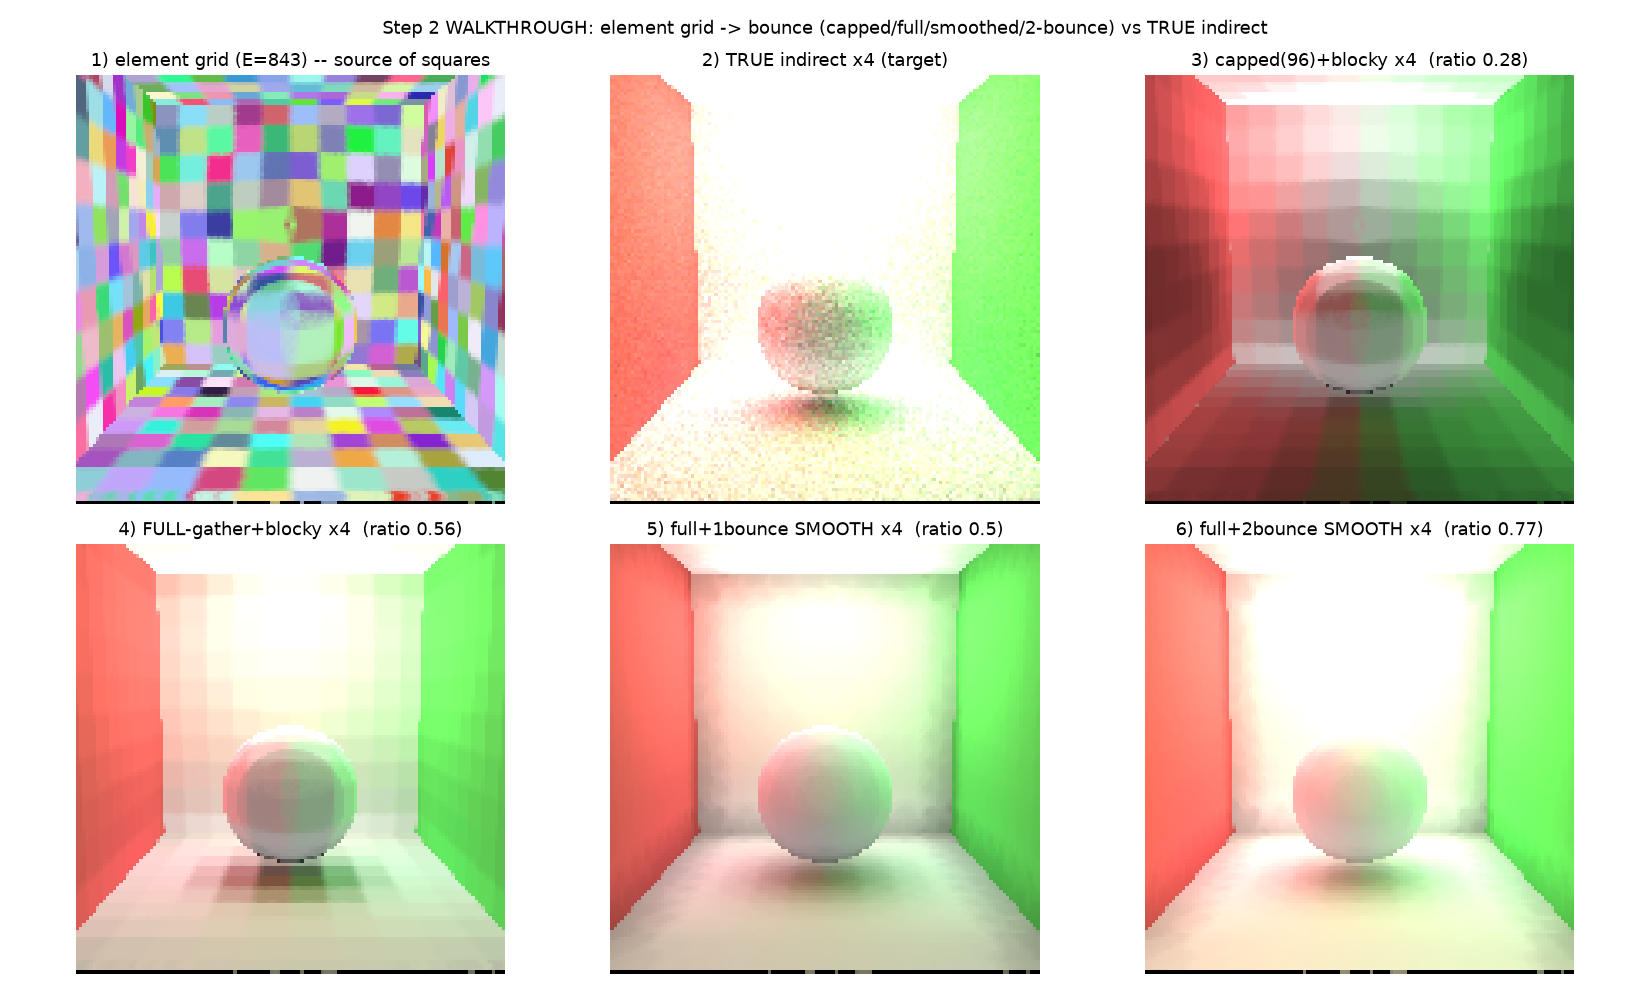
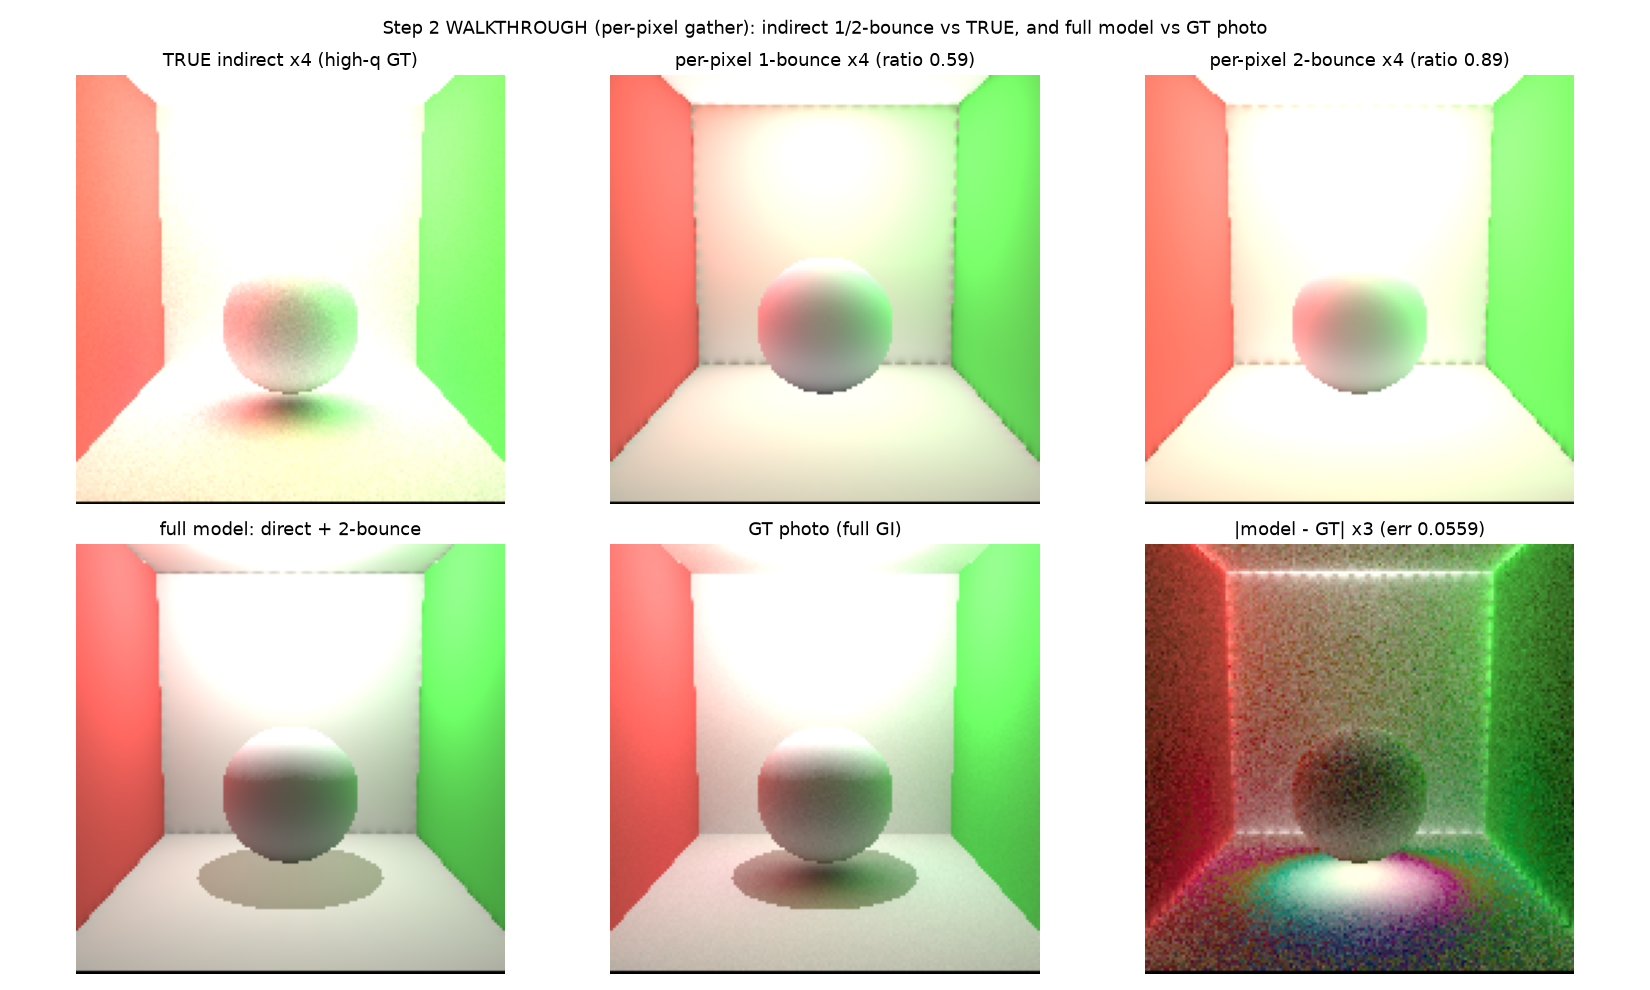
rt step2: per-pixel receiver gather (no interp/squares, geometry-correct) + near-field-stable area form factor; finer patches. bounce-sweep test confirms floor color-bleed is a 1-bounce effect (path-traced shows it at nb=1) -> the form-factor operator was dropping the wall->floor transfer, not a bou

diff --git a/src/rt/rt_step2.py b/src/rt/rt_step2.py
@@ -26,7 +26,7 @@ H = int(sys.argv[2]) if len(sys.argv)>2 else 128
 ITERS = int(sys.argv[3]) if len(sys.argv)>3 else 400
 GT_SPP = int(sys.argv[4]) if len(sys.argv)>4 else 256
 W=H; EPS=0.04; DMIN=0.6; GT_NB=3
-VOX=0.20; R_MAX=3.0; KNN=96                     # element clustering + form-factor neighborhood
+VOX=0.12; R_MAX=3.0; KNN=96; BOUNCES=2          # element clustering, form-factor neighborhood, indirect bounces
 
 LIGHT_POS = torch.tensor([0.0,0.9,-0.1], device=DEV)
 LIGHT_INT_TRUE = torch.tensor([7.0,7.0,7.0], device=DEV)
@@ -138,7 +138,7 @@ def build_K(tr,gsA0,eid,E,cen,nor,area,knn=None):
     else:
         ii,jj=facing.nonzero(as_tuple=True)                                         # all facing pairs
     rij=r[ii,jj]; ci=cos_i[ii,jj]; cj=cos_j[ii,jj]
-    Kij=ci*cj/(PI*rij**2)*area[jj]
+    Kij=ci*cj*area[jj]/(PI*rij**2 + area[jj])                                       # area form factor (near-field stable)
     oi=cen[ii]+nor[ii]*EPS; dj=torch.nn.functional.normalize(cen[jj]-cen[ii],dim=-1)
     op,dist=trace_flat(tr,gsA0,oi,dj); occ=(op>0.5)&(dist<rij-3*EPS)
     Kij=Kij*(~occ).float()
@@ -160,6 +160,29 @@ def smooth_weights(S, cen, nor, k=8, chunk=20000):
     return nbr,w
 
 def smooth_apply(Eelem, nbr, w): return (Eelem[nbr]*w[...,None]).sum(1)              # (E,3),(N,k),(N,k)->(N,3)
+
+
+def view_G(p, n, cen, nor, area, chunk=4096):
+    """per-PIXEL receiver gather matrix G[pix,j] = max(n_pix.u,0)*max(-n_j.u,0)/(pi r^2)*area_j.
+    Uses each pixel's OWN position/normal (no interpolation, geometry-correct, corners darken naturally).
+    Geometry-only & fixed per view -> precomputed once. Indirect visibility omitted (soft fill)."""
+    HW=p.shape[0]*p.shape[1]; E=cen.shape[0]; pf=p.reshape(-1,3); nf=n.reshape(-1,3)
+    G=torch.zeros(HW,E,device=DEV)
+    for s in range(0,HW,chunk):
+        pc=pf[s:s+chunk]; nc=nf[s:s+chunk]
+        d=cen[None,:,:]-pc[:,None,:]; r=d.norm(dim=-1).clamp(min=1e-3); u=d/r[...,None]
+        cos_i=torch.relu((nc[:,None,:]*u).sum(-1)); cos_j=torch.relu((-nor[None,:,:]*u).sum(-1))
+        G[s:s+chunk]=cos_i*cos_j*area[None,:]/(PI*r**2 + area[None,:])              # area form factor (near-field stable)
+    return G                                                                          # (HW, E)
+
+
+def radiosity(rho_elem, Edir_elem, K, terms):
+    """multi-bounce element radiosity. terms=1 -> direct response only; terms=2 -> + one inter-element bounce.
+    inter-element transfer K already carries (coarse) patch-to-patch visibility."""
+    B0=rho_elem*Edir_elem; acc=B0; cur=B0
+    for _ in range(terms-1):
+        cur=rho_elem*(K@cur); acc=acc+cur
+    return acc                                                                        # (E,3) total outgoing
 
 def scatter_mean(x,eid,E):
     cnt=torch.zeros(E,device=x.device).index_add_(0,eid,torch.ones(x.shape[0],device=x.device)).clamp(min=1)
@@ -184,20 +207,20 @@ def precompute(tr,S,gsA0,gsN):
         fac_pix=torch.relu((n0*lp_).sum(-1,keepdim=True))*vis0/(ldp.clamp(min=DMIN)**2)
         GTgi=render_gt(tr,S,gsA0,gsN,cam,pdir,LIGHT_POS,LIGHT_INT_TRUE,GT_SPP,GT_NB).detach()
         GTdir=render_gt(tr,S,gsA0,gsN,cam,pdir,LIGHT_POS,LIGHT_INT_TRUE,0,0).detach()
-        views.append(dict(cam=cam,pdir=pdir,hit=hit0,p=p0,n=n0,alb_t=alb_t,fac=fac_pix,GTgi=GTgi,GTdir=GTdir))
+        G=view_G(p0,n0,cen,nor,area)
+        views.append(dict(cam=cam,pdir=pdir,hit=hit0,p=p0,n=n0,alb_t=alb_t,fac=fac_pix,GTgi=GTgi,GTdir=GTdir,G=G))
     return dict(fac_g=fac_g,eid=eid,E=E,K=K,Kdens=dens,mean_fac_elem=mean_fac_elem,views=views,
                 cen=cen,nor=nor,area=area)
 
 
-def indirect_pix(tr, S, rho_g, lint, PC, view, gsN_dummy=None):
-    """element one-bounce indirect irradiance, rendered to this view's pixels (differentiable in rho_g, lint)."""
+def indirect_pix(tr, S, rho_g, lint, PC, view):
+    """per-PIXEL receiver gather of multi-bounce indirect irradiance (differentiable in rho_g, lint).
+    elements bounce among themselves via K (coarse, with visibility); G projects to pixels (own geometry)."""
     eid,E,K=PC["eid"],PC["E"],PC["K"]
-    rho_elem=scatter_mean(rho_g,eid,E)                                  # (E,3)
-    Edir_elem=lint.view(1,3)*PC["mean_fac_elem"][:,None]                # (E,3) direct irradiance per element
-    Bdir=rho_elem*Edir_elem                                            # (E,3) direct radiosity
-    Eind_elem=K@Bdir                                                   # (E,3) one-bounce incoming irradiance
-    gsInd=feat_gs(S, Eind_elem[eid])                                   # per-Gaussian color = its element's indirect
-    eind,_,_=trace(tr,gsInd,view["cam"],view["pdir"]); return eind     # (H,W,3)
+    rho_elem=scatter_mean(rho_g,eid,E)
+    Edir_elem=lint.view(1,3)*PC["mean_fac_elem"][:,None]
+    B=radiosity(rho_elem,Edir_elem,K,BOUNCES)                          # (E,3) multi-bounce element radiosity
+    return (view["G"]@B).view(H,W,3)                                   # (H,W,3) per-pixel, no render needed
 
 
 def render_model(tr,S,gsA,rho_g,lint,PC,view,use_gi):
@@ -282,9 +305,9 @@ def stage_full():
 
 
 def stage_walk():
-    """visual walkthrough of the form-factor pipeline so the failure is visible at each stage."""
+    """validate the PER-PIXEL receiver gather (smooth + geometry-correct) against HIGH-QUALITY GT."""
     S=build(); tr=tracer(); gsA0=feat_gs(S,S["alb"]); gsN=feat_gs(S,0.5*(S["nrm"]+1)); tr.build_acc(gsA0,rebuild=True)
-    print(f"STEP2 WALK | {H}x{W} | GT spp={GT_SPP} nb={GT_NB} | vox={VOX}")
+    print(f"STEP2 WALK (per-pixel gather) | {H}x{W} | GT spp={GT_SPP} nb={GT_NB} | vox={VOX} bounces={BOUNCES}")
     n_g=orient(S["nrm"], LIGHT_POS.view(1,3)-S["pos"])
     lv=LIGHT_POS.view(1,3)-S["pos"]; ld=lv.norm(dim=-1,keepdim=True); l=lv/(ld+1e-9)
     opg,dg=trace_flat(tr,gsA0,S["pos"]+n_g*EPS,l); visg=(~((opg>0.5)&(dg<ld[:,0]-2*EPS))).float()
@@ -292,43 +315,115 @@ def stage_walk():
     eid,E,cen,nor,area=build_elements(S)
     cntN=torch.zeros(E,device=DEV).index_add_(0,eid,torch.ones(S["N"],device=DEV)).clamp(min=1)
     mean_fac_elem=torch.zeros(E,device=DEV).index_add_(0,eid,fac_g)/cntN
-    print(f"  elements E={E}")
-    Kcap,ncap=build_K(tr,gsA0,eid,E,cen,nor,area,knn=KNN)
-    Kfull,nfull=build_K(tr,gsA0,eid,E,cen,nor,area,knn=None)
-    print(f"  K pairs: capped {ncap}, full {nfull}")
-    nbr,w=smooth_weights(S,cen,nor)
+    K,nfull=build_K(tr,gsA0,eid,E,cen,nor,area,knn=None)
+    print(f"  elements E={E} | K pairs(full) {nfull}")
     smean=lambda x:(torch.zeros(E,x.shape[1],device=DEV).index_add_(0,eid,x))/cntN[:,None]
-    rho_elem=smean(S["alb"]); Edir_elem=LIGHT_INT_TRUE.view(1,3)*mean_fac_elem[:,None]; Bdir=rho_elem*Edir_elem
-    Eind_cap=Kcap@Bdir; Eind_full=Kfull@Bdir; Eind_2b=Kfull@(Bdir+rho_elem*(Kfull@Bdir))
-    Eind_1b_g=smooth_apply(Eind_full,nbr,w); Eind_2b_g=smooth_apply(Eind_2b,nbr,w)
+    rho_elem=smean(S["alb"]); Edir_elem=LIGHT_INT_TRUE.view(1,3)*mean_fac_elem[:,None]
 
-    cam,pdir=camera(*VIEWS[0]); hit0,p0,n0,alb_t=surf(tr,gsA0,gsN,cam,pdir); m=(hit0>0)
+    cam,pdir=camera(*VIEWS[0]); hit0,p0,n0,alb_t=surf(tr,gsA0,gsN,cam,pdir); n0=orient(n0,-pdir); m=(hit0>0)
+    G=view_G(p0,n0,cen,nor,area)
     GTgi=render_gt(tr,S,gsA0,gsN,cam,pdir,LIGHT_POS,LIGHT_INT_TRUE,GT_SPP,GT_NB)
     GTdir=render_gt(tr,S,gsA0,gsN,cam,pdir,LIGHT_POS,LIGHT_INT_TRUE,0,0)
-    true_ind=(GTgi-GTdir).clamp(min=0)
-    ap,_,_=trace(tr,gsA0,cam,pdir)
-    rend=lambda colN:(trace(tr,feat_gs(S,colN),cam,pdir)[0])
-    torch.manual_seed(0); eid_img=rend(torch.rand(E,3,device=DEV)[eid])
-    rad_cap=ap/PI*rend(Eind_cap[eid]); rad_full=ap/PI*rend(Eind_full[eid])           # blocky (per-element)
-    rad_1b=ap/PI*rend(Eind_1b_g); rad_2b=ap/PI*rend(Eind_2b_g)                        # smooth (per-Gaussian)
+    true_ind=(GTgi-GTdir).clamp(min=0); ap,_,_=trace(tr,gsA0,cam,pdir)
+    B1=radiosity(rho_elem,Edir_elem,K,1); B2=radiosity(rho_elem,Edir_elem,K,2)
+    ind1=ap/PI*(G@B1).view(H,W,3); ind2=ap/PI*(G@B2).view(H,W,3)                       # per-pixel indirect radiance
+    lvp=LIGHT_POS.view(1,1,3)-p0; ldp=lvp.norm(dim=-1,keepdim=True); lpp=lvp/(ldp+1e-9)
+    vis0=shadow_vis(tr,gsA0,p0,n0,LIGHT_POS)
+    direct=ap/PI*torch.relu((n0*lpp).sum(-1,keepdim=True))*vis0*LIGHT_INT_TRUE.view(1,1,3)/(ldp.clamp(min=DMIN)**2)
+    model=direct+ind2
     tmean=float(true_ind[m].mean()); rr=lambda img:round(float(img[m].mean())/(tmean+1e-9),2)
-    print(f"  indirect mean ratio vs true: capped {rr(rad_cap)} | full {rr(rad_full)} | full+1b smooth {rr(rad_1b)} | full+2b smooth {rr(rad_2b)}")
+    merr=float((model[m]-GTgi[m]).abs().mean())
+    print(f"  indirect ratio vs true: per-pixel 1-bounce {rr(ind1)} | 2-bounce {rr(ind2)}")
+    print(f"  full model (direct+2b) vs GT photo: mean abs err {merr:.4f}")
     to=lambda t:(t*m[...,None]).detach().cpu().numpy()
     fig,ax=plt.subplots(2,3,figsize=(15,9))
-    ax[0,0].imshow(srgb(to(eid_img)));       ax[0,0].set_title(f"1) element grid (E={E}) -- source of squares")
-    ax[0,1].imshow(srgb(to(true_ind*4)));    ax[0,1].set_title("2) TRUE indirect x4 (target)")
-    ax[0,2].imshow(srgb(to(rad_cap*4)));     ax[0,2].set_title(f"3) capped(96)+blocky x4  (ratio {rr(rad_cap)})")
-    ax[1,0].imshow(srgb(to(rad_full*4)));    ax[1,0].set_title(f"4) FULL-gather+blocky x4  (ratio {rr(rad_full)})")
-    ax[1,1].imshow(srgb(to(rad_1b*4)));      ax[1,1].set_title(f"5) full+1bounce SMOOTH x4  (ratio {rr(rad_1b)})")
-    ax[1,2].imshow(srgb(to(rad_2b*4)));      ax[1,2].set_title(f"6) full+2bounce SMOOTH x4  (ratio {rr(rad_2b)})")
+    ax[0,0].imshow(srgb(to(true_ind*4)));  ax[0,0].set_title("TRUE indirect x4 (high-q GT)")
+    ax[0,1].imshow(srgb(to(ind1*4)));      ax[0,1].set_title(f"per-pixel 1-bounce x4 (ratio {rr(ind1)})")
+    ax[0,2].imshow(srgb(to(ind2*4)));      ax[0,2].set_title(f"per-pixel 2-bounce x4 (ratio {rr(ind2)})")
+    ax[1,0].imshow(srgb(to(model)));       ax[1,0].set_title("full model: direct + 2-bounce")
+    ax[1,1].imshow(srgb(to(GTgi)));        ax[1,1].set_title("GT photo (full GI)")
+    ax[1,2].imshow(srgb(to((model-GTgi).abs()*3))); ax[1,2].set_title(f"|model - GT| x3 (err {merr:.4f})")
     for a in ax.ravel(): a.axis("off")
-    fig.suptitle("Step 2 WALKTHROUGH: element grid -> bounce (capped/full/smoothed/2-bounce) vs TRUE indirect", fontsize=12)
+    fig.suptitle("Step 2 WALKTHROUGH (per-pixel gather): indirect 1/2-bounce vs TRUE, and full model vs GT photo", fontsize=12)
     fig.tight_layout(); fig.savefig(os.path.join(OUT,"step2_walk.png"),dpi=110); plt.close(fig)
     print("saved -> outputs/rt/step2_walk.png")
+
+
+def stage_bounces():
+    """settle 'is floor-green a bounce-count issue?': path-traced TRUE indirect at nb=1,2,3 (top row) vs
+    my form-factor operator at matching bounce counts (bottom row). See WHEN the floor color appears."""
+    S=build(); tr=tracer(); gsA0=feat_gs(S,S["alb"]); gsN=feat_gs(S,0.5*(S["nrm"]+1)); tr.build_acc(gsA0,rebuild=True)
+    print(f"STEP2 BOUNCE-SWEEP | {H}x{W} | GT spp={GT_SPP} | vox={VOX}")
+    n_g=orient(S["nrm"], LIGHT_POS.view(1,3)-S["pos"])
+    lv=LIGHT_POS.view(1,3)-S["pos"]; ld=lv.norm(dim=-1,keepdim=True); l=lv/(ld+1e-9)
+    opg,dg=trace_flat(tr,gsA0,S["pos"]+n_g*EPS,l); visg=(~((opg>0.5)&(dg<ld[:,0]-2*EPS))).float()
+    fac_g=torch.relu((n_g*l).sum(-1))*visg/(ld[:,0].clamp(min=DMIN)**2)
+    eid,E,cen,nor,area=build_elements(S)
+    cntN=torch.zeros(E,device=DEV).index_add_(0,eid,torch.ones(S["N"],device=DEV)).clamp(min=1)
+    mean_fac_elem=torch.zeros(E,device=DEV).index_add_(0,eid,fac_g)/cntN
+    K,_=build_K(tr,gsA0,eid,E,cen,nor,area,knn=None)
+    smean=lambda x:(torch.zeros(E,x.shape[1],device=DEV).index_add_(0,eid,x))/cntN[:,None]
+    rho_elem=smean(S["alb"]); Edir_elem=LIGHT_INT_TRUE.view(1,3)*mean_fac_elem[:,None]
+    cam,pdir=camera(*VIEWS[0]); hit0,p0,n0,alb_t=surf(tr,gsA0,gsN,cam,pdir); n0=orient(n0,-pdir); m=(hit0>0)
+    G=view_G(p0,n0,cen,nor,area); ap,_,_=trace(tr,gsA0,cam,pdir)
+    GTdir=render_gt(tr,S,gsA0,gsN,cam,pdir,LIGHT_POS,LIGHT_INT_TRUE,0,0)
+    print(f"  elements E={E}; rendering path-traced indirect nb=1,2,3 ...")
+    ti=[(render_gt(tr,S,gsA0,gsN,cam,pdir,LIGHT_POS,LIGHT_INT_TRUE,GT_SPP,b)-GTdir).clamp(min=0) for b in (1,2,3)]
+    ff=[ap/PI*(G@radiosity(rho_elem,Edir_elem,K,b)).view(H,W,3) for b in (1,2,3)]
+    to=lambda t:(t*m[...,None]).detach().cpu().numpy()
+    fig,ax=plt.subplots(2,3,figsize=(15,9))
+    for j,b in enumerate((1,2,3)):
+        ax[0,j].imshow(srgb(to(ti[j]*4))); ax[0,j].set_title(f"PATH-TRACED indirect, {b} bounce x4")
+        ax[1,j].imshow(srgb(to(ff[j]*4))); ax[1,j].set_title(f"FORM-FACTOR indirect, {b} bounce x4")
+    for a in ax.ravel(): a.axis("off")
+    fig.suptitle("Does floor-green need more bounces? top = path-traced GT at 1/2/3 bounces, bottom = our operator", fontsize=12)
+    fig.tight_layout(); fig.savefig(os.path.join(OUT,"step2_bounces.png"),dpi=110); plt.close(fig)
+    print("saved -> outputs/rt/step2_bounces.png")
+
+
+def stage_debug():
+    """find WHERE the wall->floor color is lost: split the operator's gathered indirect by emitter surface."""
+    S=build(); tr=tracer(); gsA0=feat_gs(S,S["alb"]); gsN=feat_gs(S,0.5*(S["nrm"]+1)); tr.build_acc(gsA0,rebuild=True)
+    print(f"STEP2 DEBUG | {H}x{W} | GT spp={GT_SPP} | vox={VOX}")
+    n_g=orient(S["nrm"], LIGHT_POS.view(1,3)-S["pos"])
+    lv=LIGHT_POS.view(1,3)-S["pos"]; ld=lv.norm(dim=-1,keepdim=True); l=lv/(ld+1e-9)
+    opg,dg=trace_flat(tr,gsA0,S["pos"]+n_g*EPS,l); visg=(~((opg>0.5)&(dg<ld[:,0]-2*EPS))).float()
+    fac_g=torch.relu((n_g*l).sum(-1))*visg/(ld[:,0].clamp(min=DMIN)**2)
+    eid,E,cen,nor,area=build_elements(S)
+    cntN=torch.zeros(E,device=DEV).index_add_(0,eid,torch.ones(S["N"],device=DEV)).clamp(min=1)
+    mean_fac_elem=torch.zeros(E,device=DEV).index_add_(0,eid,fac_g)/cntN
+    K,_=build_K(tr,gsA0,eid,E,cen,nor,area,knn=None)
+    smean=lambda x:(torch.zeros(E,x.shape[1],device=DEV).index_add_(0,eid,x))/cntN[:,None]
+    rho_elem=smean(S["alb"]); Edir_elem=LIGHT_INT_TRUE.view(1,3)*mean_fac_elem[:,None]; B0=rho_elem*Edir_elem
+    cam,pdir=camera(*VIEWS[0]); hit0,p0,n0,alb_t=surf(tr,gsA0,gsN,cam,pdir); n0=orient(n0,-pdir); m=(hit0>0)
+    G=view_G(p0,n0,cen,nor,area); ap,_,_=trace(tr,gsA0,cam,pdir)
+    wall=(nor[:,0].abs()>0.5).float()[:,None]                                       # red/green walls (normal ~ +-x)
+    print(f"  E={E} | wall elements {int(wall.sum())} | rowsum(G) mean {float((G.sum(1)).mean()):.3f} (form-factor closure ~1?)")
+    ind_full =ap/PI*(G@B0).view(H,W,3)
+    ind_wall =ap/PI*(G@(B0*wall)).view(H,W,3)
+    ind_other=ap/PI*(G@(B0*(1-wall))).view(H,W,3)
+    GTdir=render_gt(tr,S,gsA0,gsN,cam,pdir,LIGHT_POS,LIGHT_INT_TRUE,0,0)
+    ti1=(render_gt(tr,S,gsA0,gsN,cam,pdir,LIGHT_POS,LIGHT_INT_TRUE,GT_SPP,1)-GTdir).clamp(min=0)
+    B0img,_,_=trace(tr,feat_gs(S,B0[eid]),cam,pdir)
+    to=lambda t:(t*m[...,None]).detach().cpu().numpy()
+    fig,ax=plt.subplots(2,3,figsize=(15,9))
+    ax[0,0].imshow(srgb(to(B0img)));        ax[0,0].set_title("B0 element radiosity (emitter colors: walls green/red?)")
+    ax[0,1].imshow(srgb(to(ind_wall*8)));   ax[0,1].set_title("operator indirect: WALLS-only emitters x8")
+    ax[0,2].imshow(srgb(to(ind_other*8)));  ax[0,2].set_title("operator indirect: NON-wall emitters x8")
+    ax[1,0].imshow(srgb(to(ind_full*4)));   ax[1,0].set_title("operator indirect: ALL emitters x4")
+    ax[1,1].imshow(srgb(to(ti1*4)));        ax[1,1].set_title("PATH-TRACED 1-bounce x4 (target)")
+    ax[1,2].imshow(srgb(to(G.sum(1).view(H,W,1).expand(-1,-1,3)/G.sum(1).max())))
+    ax[1,2].set_title("G row-sum (form-factor closure) -- uniform?")
+    for a in ax.ravel(): a.axis("off")
+    fig.suptitle("Step 2 DEBUG: where is the wall->floor color lost? (split operator indirect by emitter surface)", fontsize=12)
+    fig.tight_layout(); fig.savefig(os.path.join(OUT,"step2_debug.png"),dpi=110); plt.close(fig)
+    print("saved -> outputs/rt/step2_debug.png")
 
 
 if __name__=="__main__":
     if MODE=="sanity": stage_sanity()
     elif MODE=="full": stage_full()
     elif MODE=="walk": stage_walk()
+    elif MODE=="bounces": stage_bounces()
+    elif MODE=="debug": stage_debug()
     else: print("unknown mode")
